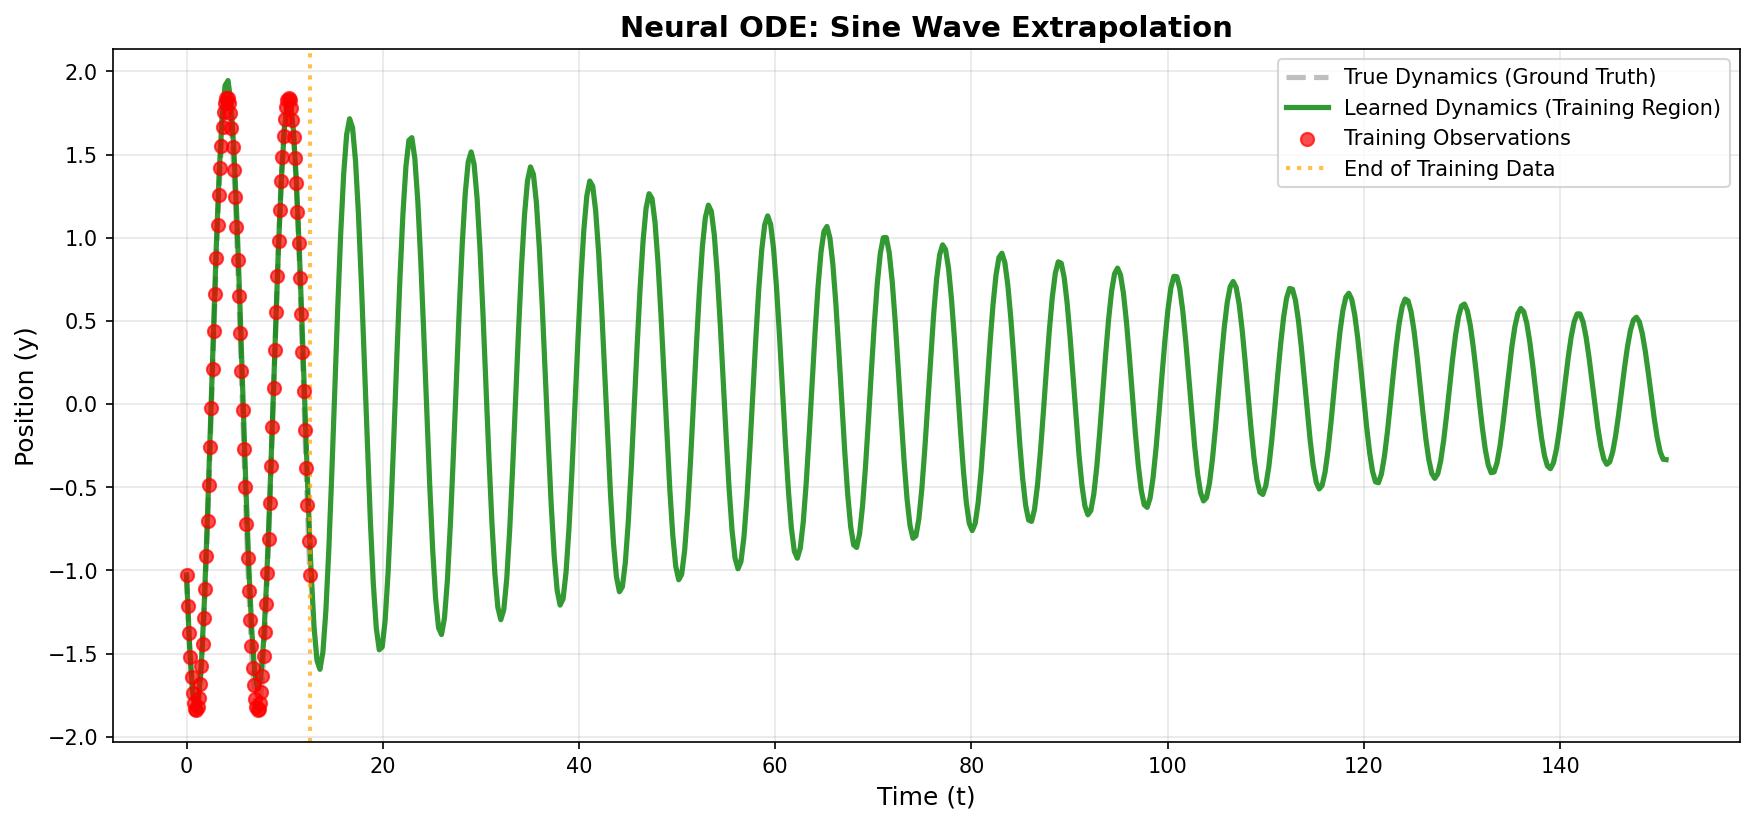
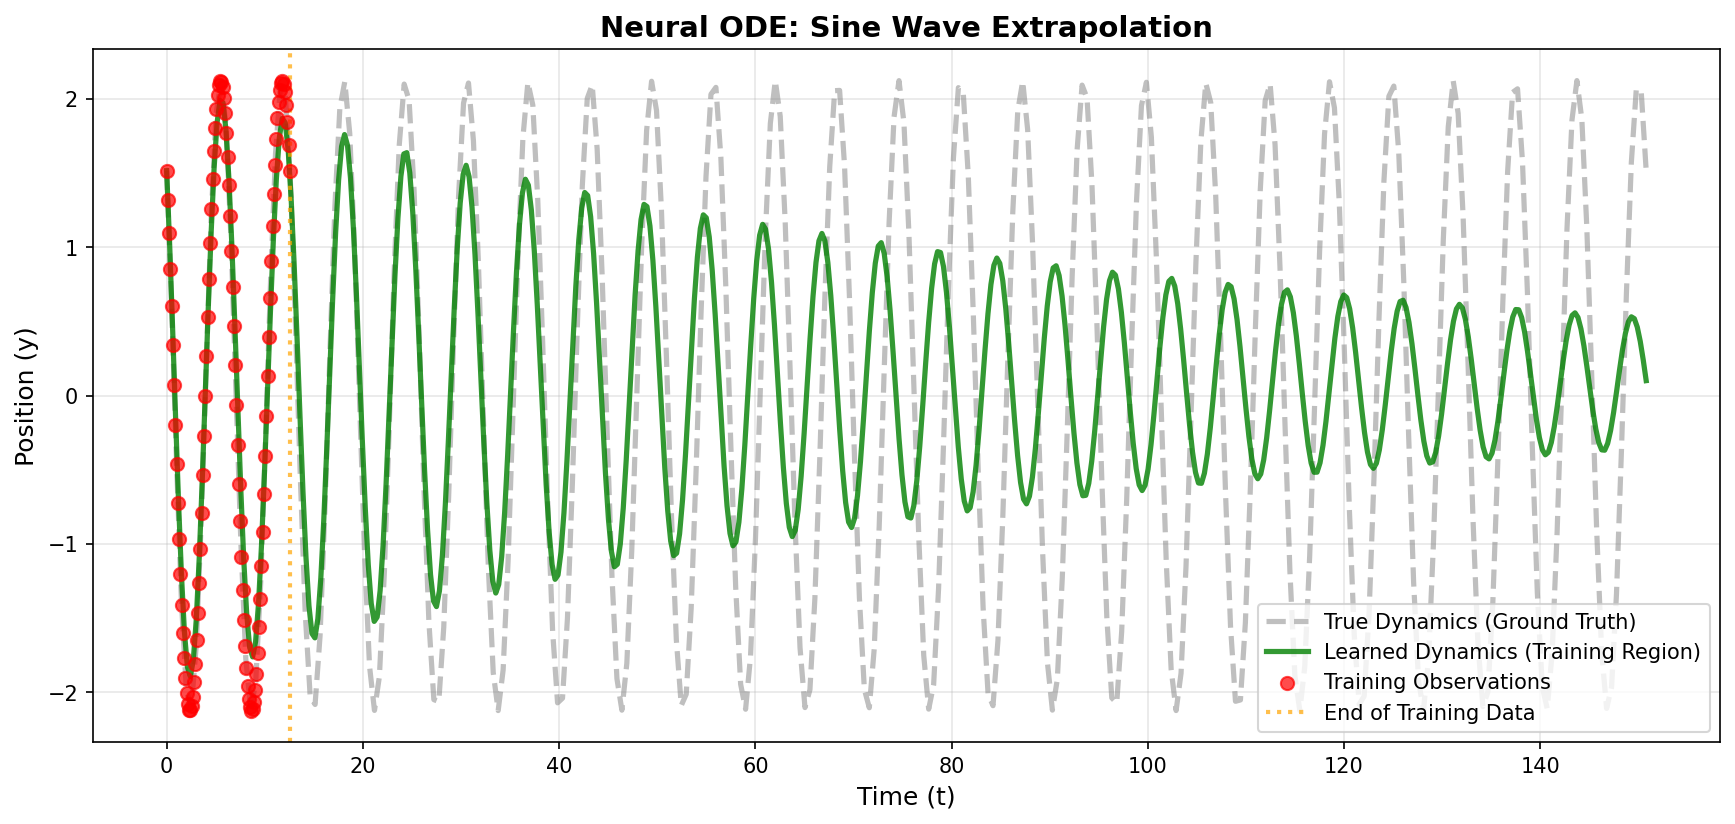
extended plots (neural ode + lstm)
Generated plots for the following horizons [12π, 24π, 48π]. It seems that the neural ode is failing to capture dynamics better than the lstm.

diff --git a/extended_plots.py b/extended_plots.py
@@ -26,7 +26,7 @@ def generate_sines(node, future_vals, t, single_true, device, true_func, lstm, s
         lstm_all = lstm_all[:, 0, :]
         plot_lstm_sine_extrapolation(t_train=t, state_train=single_true[:, 0, :], 
                              t_all=t_all, lstm_all=lstm_all, 
-                             true_func=true_func, t_max=v, file_name="lstm_sine_extrapolation ({v}).png", device=device)
+                             true_func=true_func, t_max=v, file_name=f"lstm_sine_extrapolation ({v}).png", device=device)
 
     print(f"Generated all plots for future_vals: [12π, 24π, 48π]")
 
@@ -64,9 +64,10 @@ if __name__ == '__main__':
         #single values
         single_true = true_traj[:, 0:1, :]
 
-        generate_sines(node, future_vals, t, single_true, device, true_func)
-
         #LSTM
-        seed = true_traj[:, 0, :]
+        single = true_traj[:, 0, :]
+        seed = single[:20].unsqueeze(0).to(device)
+
+        generate_sines(node, future_vals, t, single_true, device, true_func, lstm, seed)
        
 

diff --git a/models/neural_ode.py b/models/neural_ode.py
@@ -331,7 +331,7 @@ def plot_sine_extrapolation(t_train, state_train, t_future, state_future, true_f
         with torch.no_grad():
             # Create dense time points for smooth ground truth
             t_train_min = t_train[0].item()
-            t_train_max = t_train[-1].item()
+            t_train_max = t_future[-1].item()
             t_gt_dense = torch.linspace(t_train_min, t_train_max, 300).to(device)
             
             # Solve TRUE dynamics
